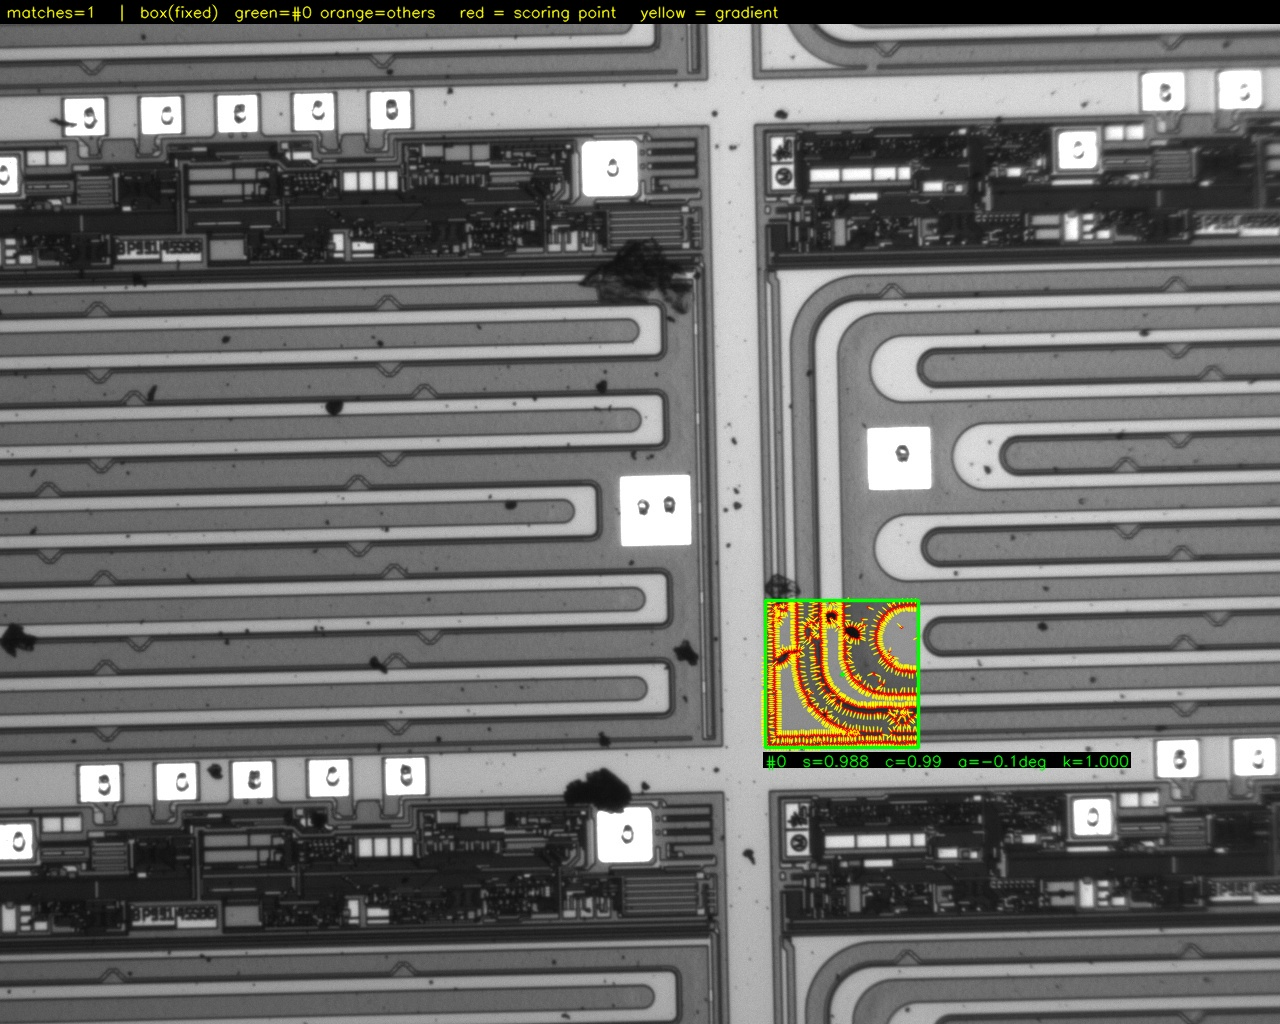
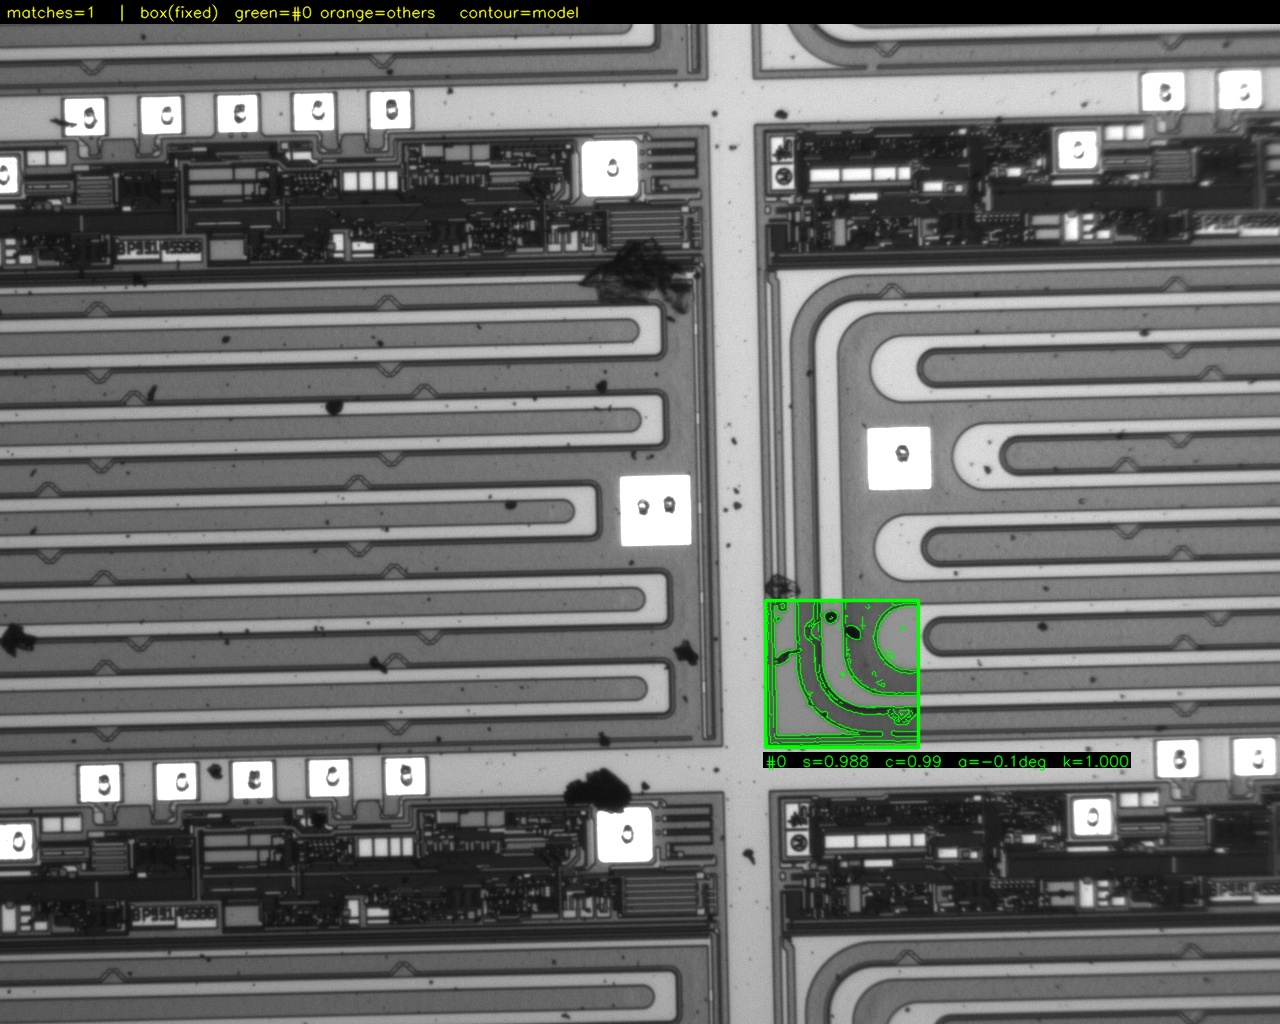
feat(gui,match): 结果图改为 Halcon 风格轮廓折线，并提示金字塔层数陷阱
问题一: 结果图上画的是红点+黄色梯度箭头，观感与 Halcon 的
dev_display_shape_matching_results 差很远，箭头还会盖住 1 像素宽的轮廓。

问题二: 金字塔层数设成 1 时搜索慢约 130 倍，且结果完全相同。用户容易误解成
「层数越多越慢、1 层更准」，实际是 1 层放弃了由粗到精、退化成全分辨率暴力扫描。

- GeoMatch: Config 新增 showContour(默认开) / showPoints(默认关) / showGradients(默认关)
- GeoMatch: drawResult 用 modelChains 画轮廓折线，线宽 s>=2 时 2px 否则 1px；
  旧模型无 chains 时自动回退画采样点；header 图例按开关动态生成
- main: 新增 -no-contour / -show-points / -show-grads
- GUI: 「界面选项」新增三个显示勾选框；金字塔层数=1 时显示橙色警告
- GUI: 新增 textWarnWrapped() 辅助函数
- 文档: README 新增《结果图画什么（Halcon 风格）》《金字塔层数：为什么
  numLevels = 1 特别慢》；使用说明同步；重生成 gui_match_result.jpg

验证: 裁掉 header 后像素统计——默认模式 green=6322 / yellow=0 / red=0，
旧模式 yellow=6188 / red=2839，确认箭头与散点已消失；case1 整目录 8 张命中数
不变，单图 s=0.988 pos=(841;674) 与改动前逐位一致；金字塔 1/2/3 层实测
6069/422/44 ms 且结果完全相同；Release 构建 0 error

Changed region(s): [[0.5938, 0.5625, 0.7188, 0.75], [0.3438, 0.0, 0.4688, 0.0312], [0.5, 0.0, 0.5938, 0.0312]]

diff --git a/GeoMatch/GeoMatch.cpp b/GeoMatch/GeoMatch.cpp
@@ -359,6 +359,7 @@ cv::Mat Matcher::drawResult(const cv::Mat& gray, const std::vector<Detection>& d
     cv::Mat tplMask(core_->getModelGray().size(), CV_8U, cv::Scalar(255));
     const cv::Point2f tplCtr = core_->modelCenter();
     const std::vector<ModelPoint>& modelPts = core_->modelPoints(0);
+    const std::vector<std::vector<cv::Point>>& modelChains = core_->modelChains(0);
 
     for (size_t k = 0; k < dets.size(); k++)
     {
@@ -383,18 +384,57 @@ cv::Mat Matcher::drawResult(const cv::Mat& gray, const std::vector<Detection>& d
         cv::addWeighted(vis, 0.55, warped, 0.45, 0, blended);
         blended.copyTo(vis, wmask);
 
-        //---- 2) model edge points and their gradient arrows -------------
-        for (const ModelPoint& mp : modelPts)
+        //---- 2) the model, drawn as contours like Halcon ------------------
+        // Same pose mapping the points use: searchPos = pos + s*R*p.
+        // A model written by an old version has no chains; fall back to the
+        // dots in that case so the result is never left unmarked.
+        const bool haveChains = !modelChains.empty();
+        if (cfg_.showContour && haveChains)
         {
-            const float x = s * (mp.x * ca + mp.y * sa) + d.pos.x;
-            const float y = s * (-mp.x * sa + mp.y * ca) + d.pos.y;
-            cv::circle(vis, cv::Point(cvRound(x), cvRound(y)), 1,
-                       cv::Scalar(0, 0, 255), -1, cv::LINE_AA);
-            const float gx = mp.gx * ca + mp.gy * sa;
-            const float gy = -mp.gx * sa + mp.gy * ca;
-            const float gn = std::sqrt(gx * gx + gy * gy);
-            if (gn > 1e-3f)
+            // Halcon draws the contour 1 px wide; keep it thin so the model
+            // reads as an outline instead of a filled blob.
+            const int thick = (s >= 2.0f) ? 2 : 1;
+            std::vector<cv::Point> poly;
+            for (size_t c = 0; c < modelChains.size(); c++)
             {
+                const std::vector<cv::Point>& ch = modelChains[c];
+                if (ch.size() < 2) continue;
+                poly.clear();
+                poly.reserve(ch.size());
+                for (size_t i = 0; i < ch.size(); i++)
+                {
+                    const float px = (float)ch[i].x, py = (float)ch[i].y;
+                    poly.push_back(cv::Point(
+                        cvRound(s * (px * ca + py * sa) + d.pos.x),
+                        cvRound(s * (-px * sa + py * ca) + d.pos.y)));
+                }
+                cv::polylines(vis, poly, false, col, thick, cv::LINE_AA);
+            }
+        }
+
+        //---- 2b) sampled scoring points (opt-in) --------------------------
+        if (cfg_.showPoints || (cfg_.showContour && !haveChains))
+        {
+            for (const ModelPoint& mp : modelPts)
+            {
+                const float x = s * (mp.x * ca + mp.y * sa) + d.pos.x;
+                const float y = s * (-mp.x * sa + mp.y * ca) + d.pos.y;
+                cv::circle(vis, cv::Point(cvRound(x), cvRound(y)), 1,
+                           cv::Scalar(0, 0, 255), -1, cv::LINE_AA);
+            }
+        }
+
+        //---- 2c) gradient arrows (opt-in, annotation only) ----------------
+        if (cfg_.showGradients)
+        {
+            for (const ModelPoint& mp : modelPts)
+            {
+                const float x = s * (mp.x * ca + mp.y * sa) + d.pos.x;
+                const float y = s * (-mp.x * sa + mp.y * ca) + d.pos.y;
+                const float gx = mp.gx * ca + mp.gy * sa;
+                const float gy = -mp.gx * sa + mp.gy * ca;
+                const float gn = std::sqrt(gx * gx + gy * gy);
+                if (gn <= 1e-3f) continue;
                 const cv::Point2f dir(gx / gn * 5.f, gy / gn * 5.f);
                 cv::line(vis, cv::Point2f(x, y), cv::Point2f(x, y) + dir,
                          cv::Scalar(0, 255, 255), 1, cv::LINE_AA);
@@ -470,8 +510,10 @@ cv::Mat Matcher::drawResult(const cv::Mat& gray, const std::vector<Detection>& d
                         : (cfg_.boxMode == 2) ? "hull" : "fixed";
     std::ostringstream hdr;
     hdr << "matches=" << dets.size()
-        << "   |  box(" << boxName << ")  green=#0 orange=others"
-        << "   red = scoring point   yellow = gradient";
+        << "   |  box(" << boxName << ")  green=#0 orange=others";
+    if (cfg_.showContour) hdr << "   contour=model";
+    if (cfg_.showPoints)  hdr << "   red=points";
+    if (cfg_.showGradients) hdr << "   yellow=gradient";
     cv::rectangle(vis, cv::Rect(0, 0, vis.cols, 24), cv::Scalar(0, 0, 0), -1);
     cv::putText(vis, hdr.str(), cv::Point(6, 17),
                 cv::FONT_HERSHEY_SIMPLEX, 0.5, cv::Scalar(0, 255, 255), 1, cv::LINE_AA);

diff --git a/GeoGUIDemo.cpp b/GeoGUIDemo.cpp
@@ -365,6 +365,9 @@ struct App
     float minCoverage    = 0.f;         // 0 = 关闭。 模型点里"梯度方向一致"的最低占比,
                                         // 用来剔除调低最小分数后冒出来的相似位置
     int   boxMode        = 0;           // 结果框样式: 0 = 固定方框(默认), 1 = 旋转框, 2 = 模型凸包
+    bool  showContour    = true;        // 画模型轮廓折线(Halcon 风格, 默认开)
+    bool  showPoints     = false;       // 画采样点(红点)
+    bool  showGradients  = false;       // 画梯度箭头(黄)
     bool  autoRun        = true;       // 参数改完自动重建模板 + 重匹配
     bool  liveUpdate     = true;       // 拖动滑块的过程中就实时刷新
     float zoom           = 1.0f;       // 1 = 适应窗口
@@ -449,6 +452,9 @@ struct App
         c.scoreMode    = scoreMode;
         c.minCoverage  = minCoverage;
         c.boxMode      = boxMode;
+        c.showContour    = showContour;
+        c.showPoints     = showPoints;
+        c.showGradients  = showGradients;
         return c;
     }
 
@@ -1011,6 +1017,14 @@ static void textDimWrapped(const char* s)
     ImGui::PopStyleColor();
 }
 
+// 橙色警告 + 自动换行，用于"这么调会明显变慢/变差"的提示
+static void textWarnWrapped(const char* s)
+{
+    ImGui::PushStyleColor(ImGuiCol_Text, ImVec4(1.0f, 0.70f, 0.25f, 1.0f));
+    ImGui::TextWrapped("%s", s);
+    ImGui::PopStyleColor();
+}
+
 static bool sliderF(const char* label, float* v, float lo, float hi, const char* fmt, bool& commit)
 {
     itemWidthForLabel(label);
@@ -1136,6 +1150,13 @@ static void drawPanel()
 
         changedModel |= sliderI("最大点数", &a.maxPoints, 100, 4000, commitModel);
         changedModel |= sliderI("金字塔层数(0=自动)", &a.numLevels, 0, 8, commitModel);
+        if (a.numLevels == 1)
+        {
+            // 1 层 = 放弃由粗到精，粗扫描直接跑在全分辨率上(实测慢 130 倍)，
+            // 而最终位姿和分数本来就在 level 0 上重算，精度一点都不会提高。
+            textWarnWrapped("层数 = 1 会退化成全分辨率暴力搜索，比 3 层慢约 130 倍，"
+                            "而且匹配结果完全相同(最终精度始终在 level 0 上算)。建议改回 0(自动)。");
+        }
         textDimWrapped("低阈值决定\"哪些边弱到可以放弃\"，高阈值是滞后起点，两者之间相连的弱边会被保住。"
                        "低阈值拉大 = 从弱边开始逐圈啃掉特征(类似腐蚀)；拉到 255 特征全消失。");
         endGroup();
@@ -1340,8 +1361,26 @@ static void drawPanel()
     }
 
     //---- 界面选项 ----
-    if (group("界面选项", false))
+    if (group("界面选项", true))
     {
+        // 结果图里画什么，只影响显示，不影响匹配
+        if (ImGui::Checkbox("显示模型轮廓(折线)", &a.showContour))
+        {
+            changedSearch = true;
+            commitSearch  = true;
+        }
+        if (fitsOnLine(checkWidth("显示采样点"))) ImGui::SameLine();
+        if (ImGui::Checkbox("显示采样点", &a.showPoints))
+        {
+            changedSearch = true;
+            commitSearch  = true;
+        }
+        if (ImGui::Checkbox("显示梯度箭头", &a.showGradients))
+        {
+            changedSearch = true;
+            commitSearch  = true;
+        }
+        textDimWrapped("默认只画模型轮廓（Halcon 风格）。采样点和梯度箭头会盖住 1 像素宽的轮廓，按需开启。");
         ImGui::Checkbox("参数改动后自动刷新", &a.autoRun);
         ImGui::Checkbox("拖动时实时刷新", &a.liveUpdate);
         itemWidthForLabel("显示缩放");

diff --git a/main.cpp b/main.cpp
@@ -227,6 +227,9 @@ namespace
         cfg.scoreMode  = (int)gArgD(a, "-score-mode", 1);
         cfg.minCoverage = (float)gArgD(a, "-min-cover", 0.0);
         cfg.boxMode    = (int)gArgD(a, "-box", 0);
+        cfg.showContour   = !gFlag(a, "-no-contour");
+        cfg.showPoints    = gFlag(a, "-show-points");
+        cfg.showGradients = gFlag(a, "-show-grads");
         m.setConfig(cfg);
 
         Timing tm;
@@ -310,6 +313,9 @@ int main(int argc, char** argv)
     cfg.scoreMode   = (int)gArgD(args, "-score-mode", 1);
     cfg.minCoverage = (float)gArgD(args, "-min-cover", 0.0);
     cfg.boxMode     = (int)gArgD(args, "-box", 0);
+    cfg.showContour   = !gFlag(args, "-no-contour");
+    cfg.showPoints    = gFlag(args, "-show-points");
+    cfg.showGradients = gFlag(args, "-show-grads");
 
     const double angleExtentDeg = gArgD(args, "-angle", 360.0);
     applyModelRange(cfg, args);
@@ -388,6 +394,9 @@ int main(int argc, char** argv)
         merged.scoreMode   = cfg.scoreMode;
         merged.minCoverage = cfg.minCoverage;
         merged.boxMode     = cfg.boxMode;
+        merged.showContour   = cfg.showContour;
+        merged.showPoints    = cfg.showPoints;
+        merged.showGradients = cfg.showGradients;
         // the search range is only overridden when it was asked for explicitly
         if (gHas(args, "-angle"))
         {

diff --git a/GeoMatch/GeoMatch.h b/GeoMatch/GeoMatch.h
@@ -94,6 +94,14 @@ struct Config
     //       polygon that only looks tidy when the model covers 4 corners)
     int    boxMode      = 0;
 
+    // what is drawn inside the box.  Defaults reproduce Halcon's
+    // dev_display_shape_matching_results(): the model contour as a polyline,
+    // nothing else.  The arrows and the dots are opt-in because a 1 px
+    // contour disappears under them.
+    bool   showContour  = true;   // model contour polylines at the pose
+    bool   showPoints   = false;  // the sampled scoring points (red dots)
+    bool   showGradients = false; // gradient arrows (yellow)
+
     // build the corresponding low level parameter structs
     MatchParams toMatchParams() const;
     FindParams  toFindParams() const;

diff --git a/README.md b/README.md
@@ -208,6 +208,32 @@ GeoMatchDemo -load model.shm -d imgs -o out -box 1      # CLI
 > 固定方框**始终水平**，所以角度信息不体现在框上——它仍然写在框下方的标注里（`a=-20.0deg`）。
 > 如果误检时框的位置看着"偏"了，那是 `pos` 的偏移，不是画错。
 
+### 结果图画什么（Halcon 风格）
+
+默认只画**模型轮廓折线**，与 Halcon `dev_display_shape_matching_results()` 的观感一致：
+一条细绿线沿着模型边缘走，框住目标的矩形，别无他物。
+
+| 开关 | 默认 | 说明 |
+|---|---|---|
+| `showContour` | **开** | 模型轮廓折线（拟合到 `get_shape_model_contours` 的效果） |
+| `showPoints` | 关 | 采样评分点（红点）；只有轮廓模式下才看得清 |
+| `showGradients` | 关 | 梯度箭头（黄）；1 像素宽的轮廓会被它完全盖住 |
+
+```bash
+GeoMatchDemo -load model.shm -s img.jpg -o out                  # 默认：只画轮廓
+GeoMatchDemo -load model.shm -s img.jpg -o out -show-grads      # 额外画梯度箭头
+GeoMatchDemo -load model.shm -s img.jpg -o out -no-contour -show-points -show-grads  # 旧版散点+箭头
+```
+
+```cpp
+cfg.showContour   = true;   // C++
+cfg.showPoints    = false;
+cfg.showGradients = false;
+```
+
+> 用旧版本保存的 `.shm` 里没有轮廓数据（`chains` 是 v3 才有的），
+> 这种情况下自动退回画采样点，结果图不会被留空。
+
 ---
 
 ## 测试报告
@@ -462,7 +488,7 @@ GeoMatchDemo -t case1/temp.jpg -d case1 -o case1/out -loops 5
 
 | 参数 | 作用 | 建议 |
 |------|------|------|
-| `numLevels` | 金字塔层数 | 0=自动（推荐），大模板可手动设 3~5 |
+| `numLevels` | 金字塔层数 | 0=自动（推荐）。**不要设 1**：会退化成全分辨率暴力搜索，比 3 层慢 130 倍且结果完全相同，详见下节 |
 | `maxPoints` | 模型点数 | 点数越多越鲁棒但越慢，默认 1200 |
 | `angleExtent` / `angleStart` | 角度范围 | 范围越小越快，先验已知时尽量收窄 |
 | `scaleMin` / `scaleMax` | 尺度范围 | 无缩放需求设为 1.0，搜索最快 |
@@ -477,6 +503,9 @@ GeoMatchDemo -t case1/temp.jpg -d case1 -o case1/out -loops 5
 | `minContrast` (lo) | 滞后**低**阈值：边缘像素的最低梯度幅值 | 见下节「对比度阈值」 |
 | `contrast` (hi) | 滞后**高**阈值：种子像素的梯度幅值 | 与 `minContrast` 相等 = 纯阈值 |
 | `boxMode` | 结果框样式（只影响 `drawResult()` 画出来的样子） | 0=固定方框(默认) / 1=旋转框 / 2=模型凸包 |
+| `showContour` | 结果图上画模型轮廓折线（Halcon 风格） | 默认开；关掉后不画模型 |
+| `showPoints` | 结果图上画采样评分点 | 默认关，诊断时开 |
+| `showGradients` | 结果图上画梯度箭头 | 默认关，会盖住细轮廓 |
 
 **核心经验：**
 
@@ -485,6 +514,45 @@ GeoMatchDemo -t case1/temp.jpg -d case1 -o case1/out -loops 5
 3. 预处理（Sobel + 金字塔）主要受内存带宽限制，搜索阶段主要受计算量限制，二者随线程数的扩展特性不同。
 4. 模型构建耗时（~3 ms）只需离线做一次，加载已保存模型几乎零开销。
 5. **模板掩码是分数稳定性的关键**：若模板内存在随帧变化的纹理（如晶圆 die 表面的颗粒/反光），应只对稳定几何特征（如街道线条）建模。实测将 667 帧的 ≥0.70 高分占比从 36% 提升到 100%、std 从 0.191 降至 0.081。
+
+### 金字塔层数：为什么 `numLevels = 1` 特别慢
+
+搜索是**由粗到精**的：只在最粗的一层做全图扫描，逐层向下只精修少量候选。
+
+| 层数 | 最粗层 | 扫描角度数 | 每层图像像素 | 每层模型点 | 全图扫描量 |
+|---|---|---|---|---|---|
+| 3 | level 2 | 658 / 2² = **165** | 1/4² = 1/16 | 1200/2² = 300 | 相对 **1×** |
+| 1 | level 0 | 658 / 2⁰ = **658** | 1/1 | 1200 | 相对 **≈130×** |
+
+单个位姿的耗时 ∝ 图像像素 × 模型点数；层数每升 1，这两个量分别除以 4 和 2（共 8×），
+同时扫描的角度数还除以 2（`strideA = 1 << top`），合计 **每多一层省约 14~16 倍**。
+
+`numLevels = 1` 时 `top = 0`，于是：
+
+- 粗扫描直接跑在**全分辨率**上（1280×1024，而不是 320×256）；
+- `strideA = 1<<0 = 1`，658 个角度**全部**要扫；
+- 精修循环 `for (l = top-1; l >= 0; l--)` 一次都不执行（debug 里 `refine=0`）。
+
+实测（搜索图 1280×1024，`greediness=0.9`，3 次取最后一次）：
+
+| 模板 | 层数 | 搜索耗时 | 匹配结果 |
+|---|---|---|---|
+| 154×148 | 1 | **6069 ms** | s=0.988 (842;674) a=-0.1° |
+| 154×148 | 2 | 422 ms | 同上 |
+| 154×148 | 3 / 0(自动) | **44 ms** | 同上 |
+| 355×414 | 1 | **2604 ms** | — |
+| 355×414 | 2 | 188 ms | — |
+| 355×414 | 3 | 15 ms | — |
+| 355×414 | 4 / 0(自动) | **4.3 ms** | — |
+
+**结果完全一样**：最终位姿与分数永远在 level 0 上重算（`refineLevel` 一直细化到 0，`subpixelRefine(0, …)`
+和 `scorePoseDetail(srcGx_[0], …)` 也只读 level 0）。所以调高金字塔层数**不损失精度**，
+它只决定"用多粗的图去找候选"。设成 1 等于放弃加速，白白慢两个数量级。
+
+> 层数也不是越大越好：`minSide = 24` 会截断（154×148 的模板最多 3 层，355×414 最多 4 层）；
+> 而且目标在粗层上可能糊掉，层数过多会漏掉候选。用 `0`（自动）即可。
+
+
 
 ### 对比度阈值：`minContrast` / `contrast` 的量纲与滞后判据
 

diff --git a/docs/GeoGUIDemo使用说明.md b/docs/GeoGUIDemo使用说明.md
@@ -248,7 +248,17 @@ build_x64\GeoGUIDemo.exe case1
 | **角度** | 检测到的旋转角（度） |
 | **尺度** | 检测到的缩放倍率（1.0 = 无缩放） |
 
-左栏「**匹配结果**」标签页会用**绿色方框**标出匹配到的目标位置，框中心有个绿点标记（`#0` 绿框，其余实例橙框）。
+左栏「**匹配结果**」标签页会用**绿色方框 + 模型轮廓折线**标出匹配到的目标（`#0` 绿框，其余实例橙框）。
+轮廓是沿着模型边缘走的细线（1 像素，缩放 ≥2 倍时 2 像素），观感和 Halcon 的
+`dev_display_shape_matching_results` 一致——**默认不画梯度箭头，也不画采样散点**。
+
+「界面选项」里有三个显示开关（只影响画面，不影响匹配）：
+
+| 开关 | 默认 | 说明 |
+|---|---|---|
+| 显示模型轮廓(折线) | 开 | 细绿线勾勒模型边缘 |
+| 显示采样点 | 关 | 参与评分的红点，做诊断时开 |
+| 显示梯度箭头 | 关 | 黄色箭头，会盖住细轮廓 |
 
 **结果框的尺寸是固定的**：宽度/高度 = 模板尺寸 × 检测到的缩放倍率，且始终保持水平，不随检测到的角度倾斜。
 这样同一工位连续多帧之间框的大小和朝向都一样，便于肉眼对比位置漂移；角度信息仍然写在框下方的标注里（`a=...`）。
@@ -296,6 +306,9 @@ build_x64\GeoGUIDemo.exe case1
 
 | 开关 | 作用 |
 |------|------|
+| **显示模型轮廓(折线)** | 结果图上画模型轮廓（默认开，Halcon 风格） |
+| **显示采样点** | 结果图上画参与评分的红点（默认关） |
+| **显示梯度箭头** | 结果图上画黄色梯度箭头（默认关，会盖住细轮廓） |
 | **自动运行** | 参数改完自动重建模板 + 重匹配 |
 | **拖动时实时刷新** | 拖动滑块过程中实时刷新（可能卡顿，按需开启） |
 
